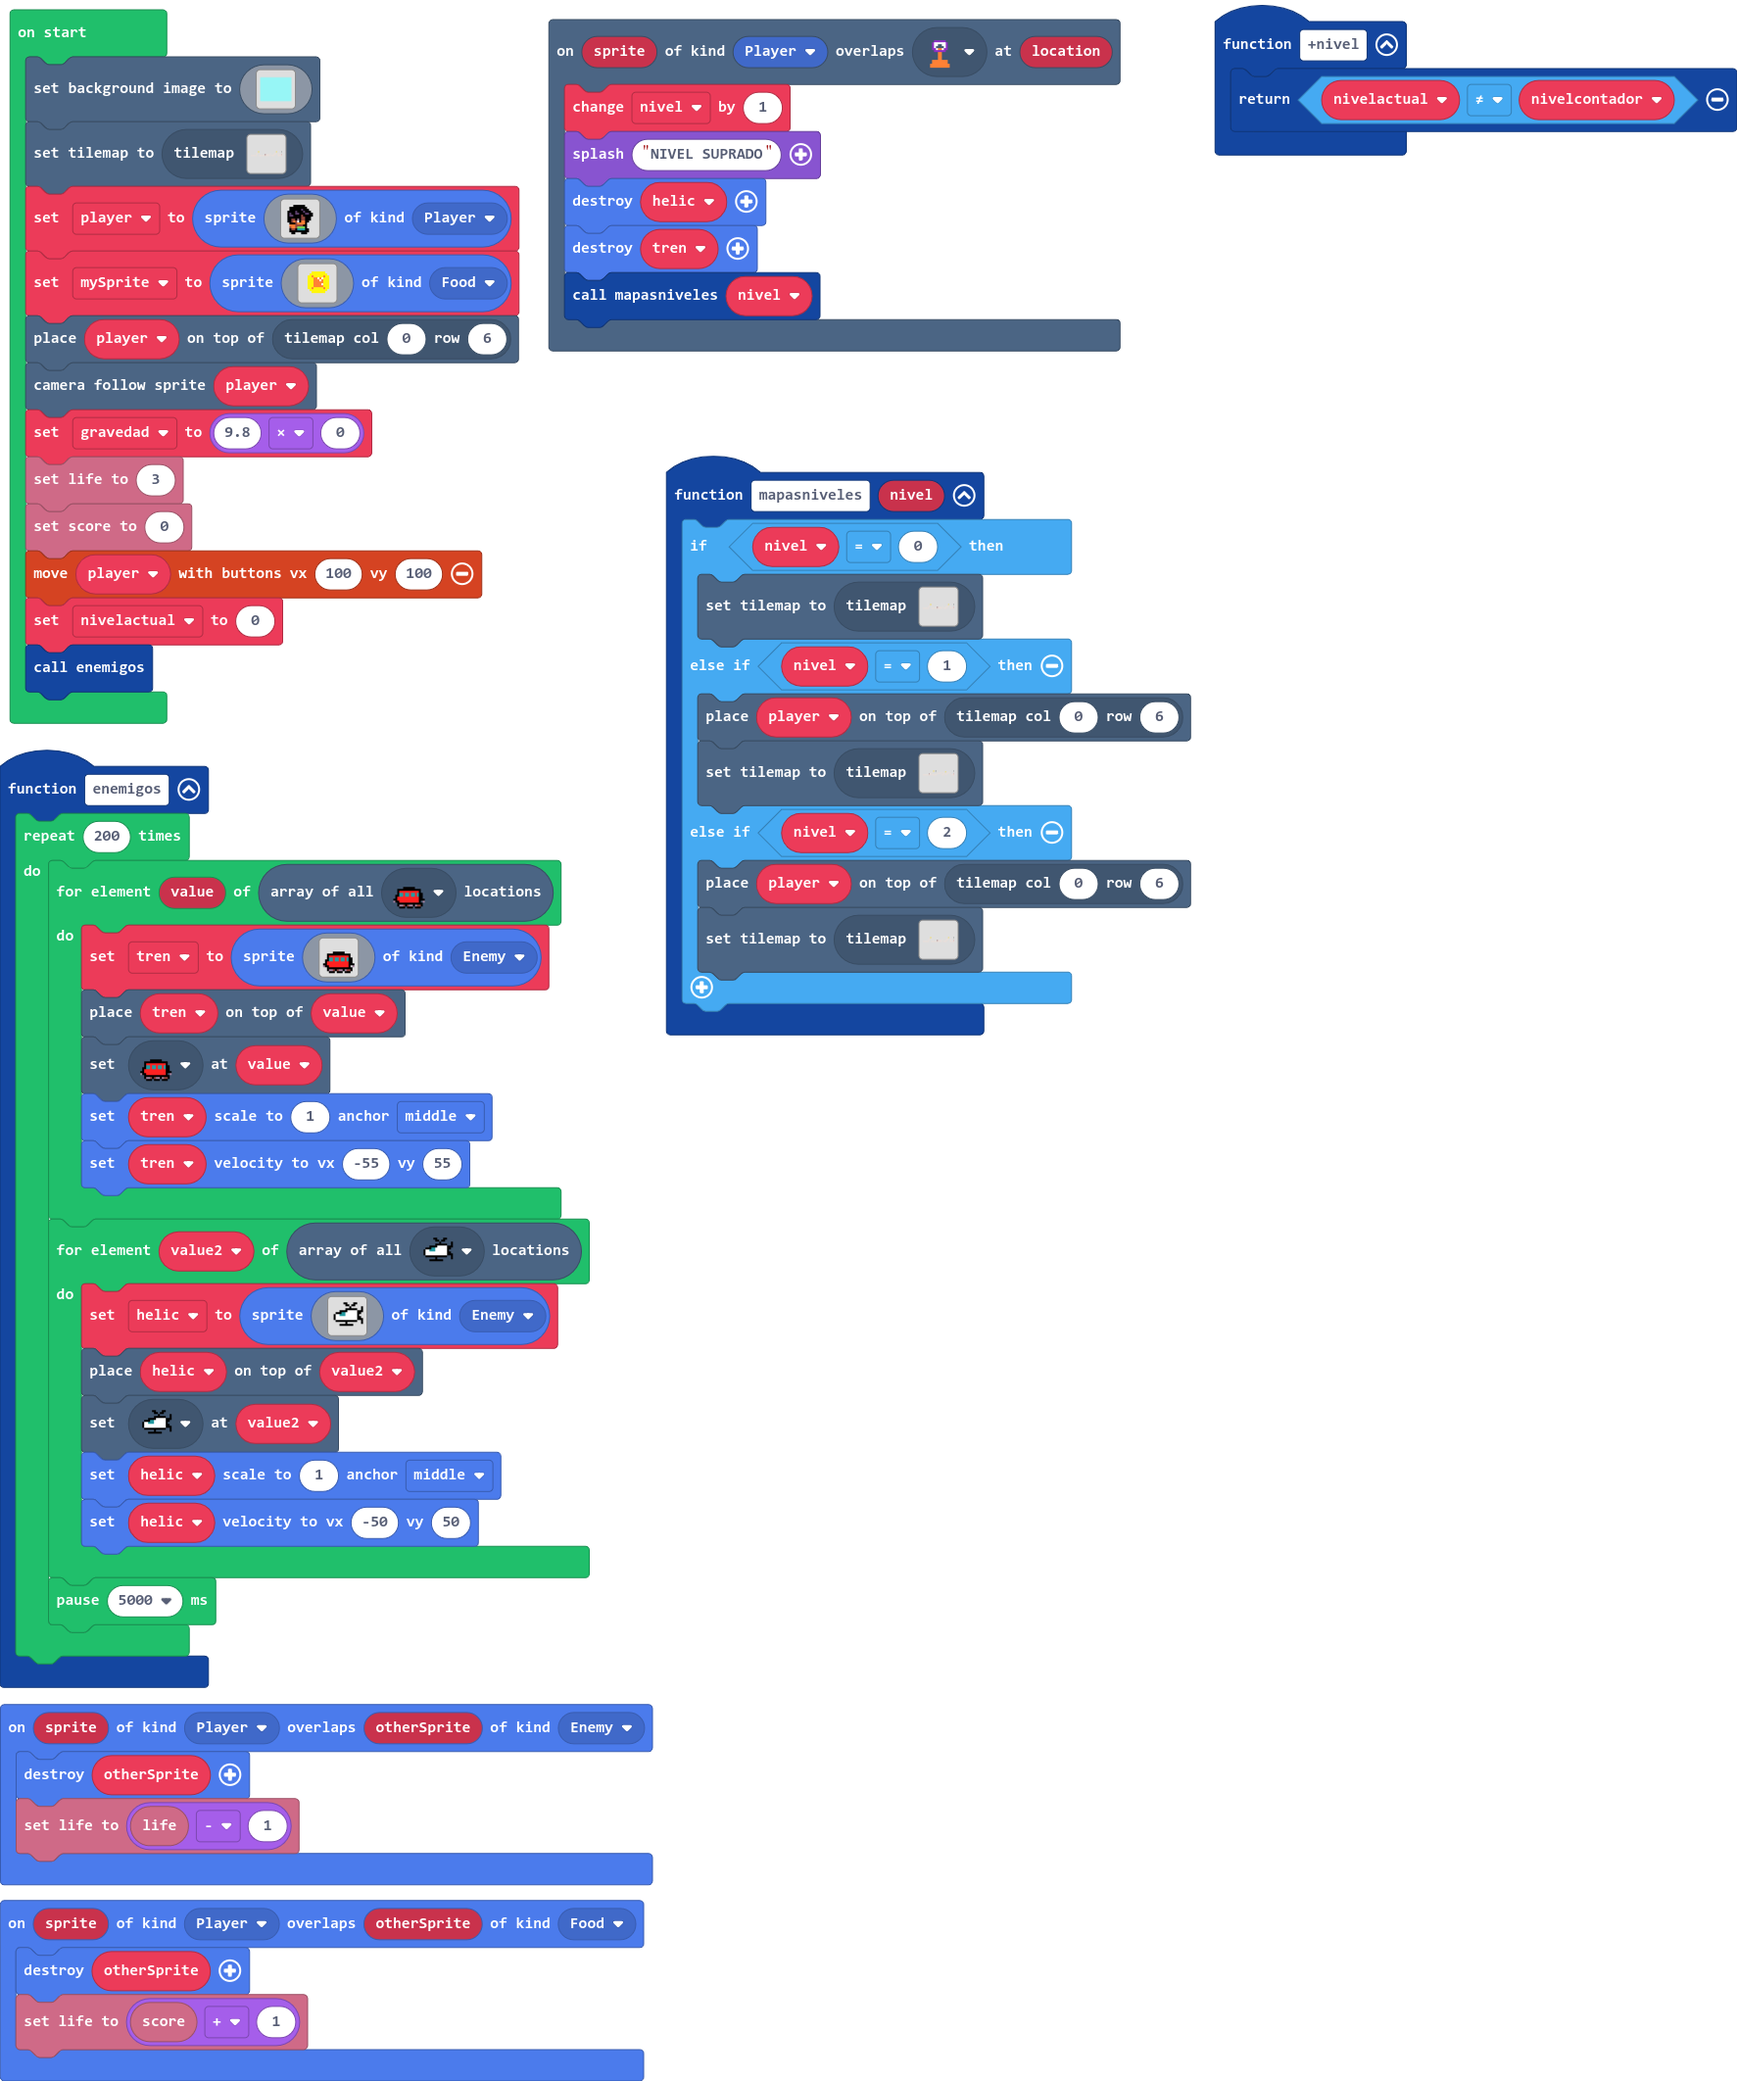
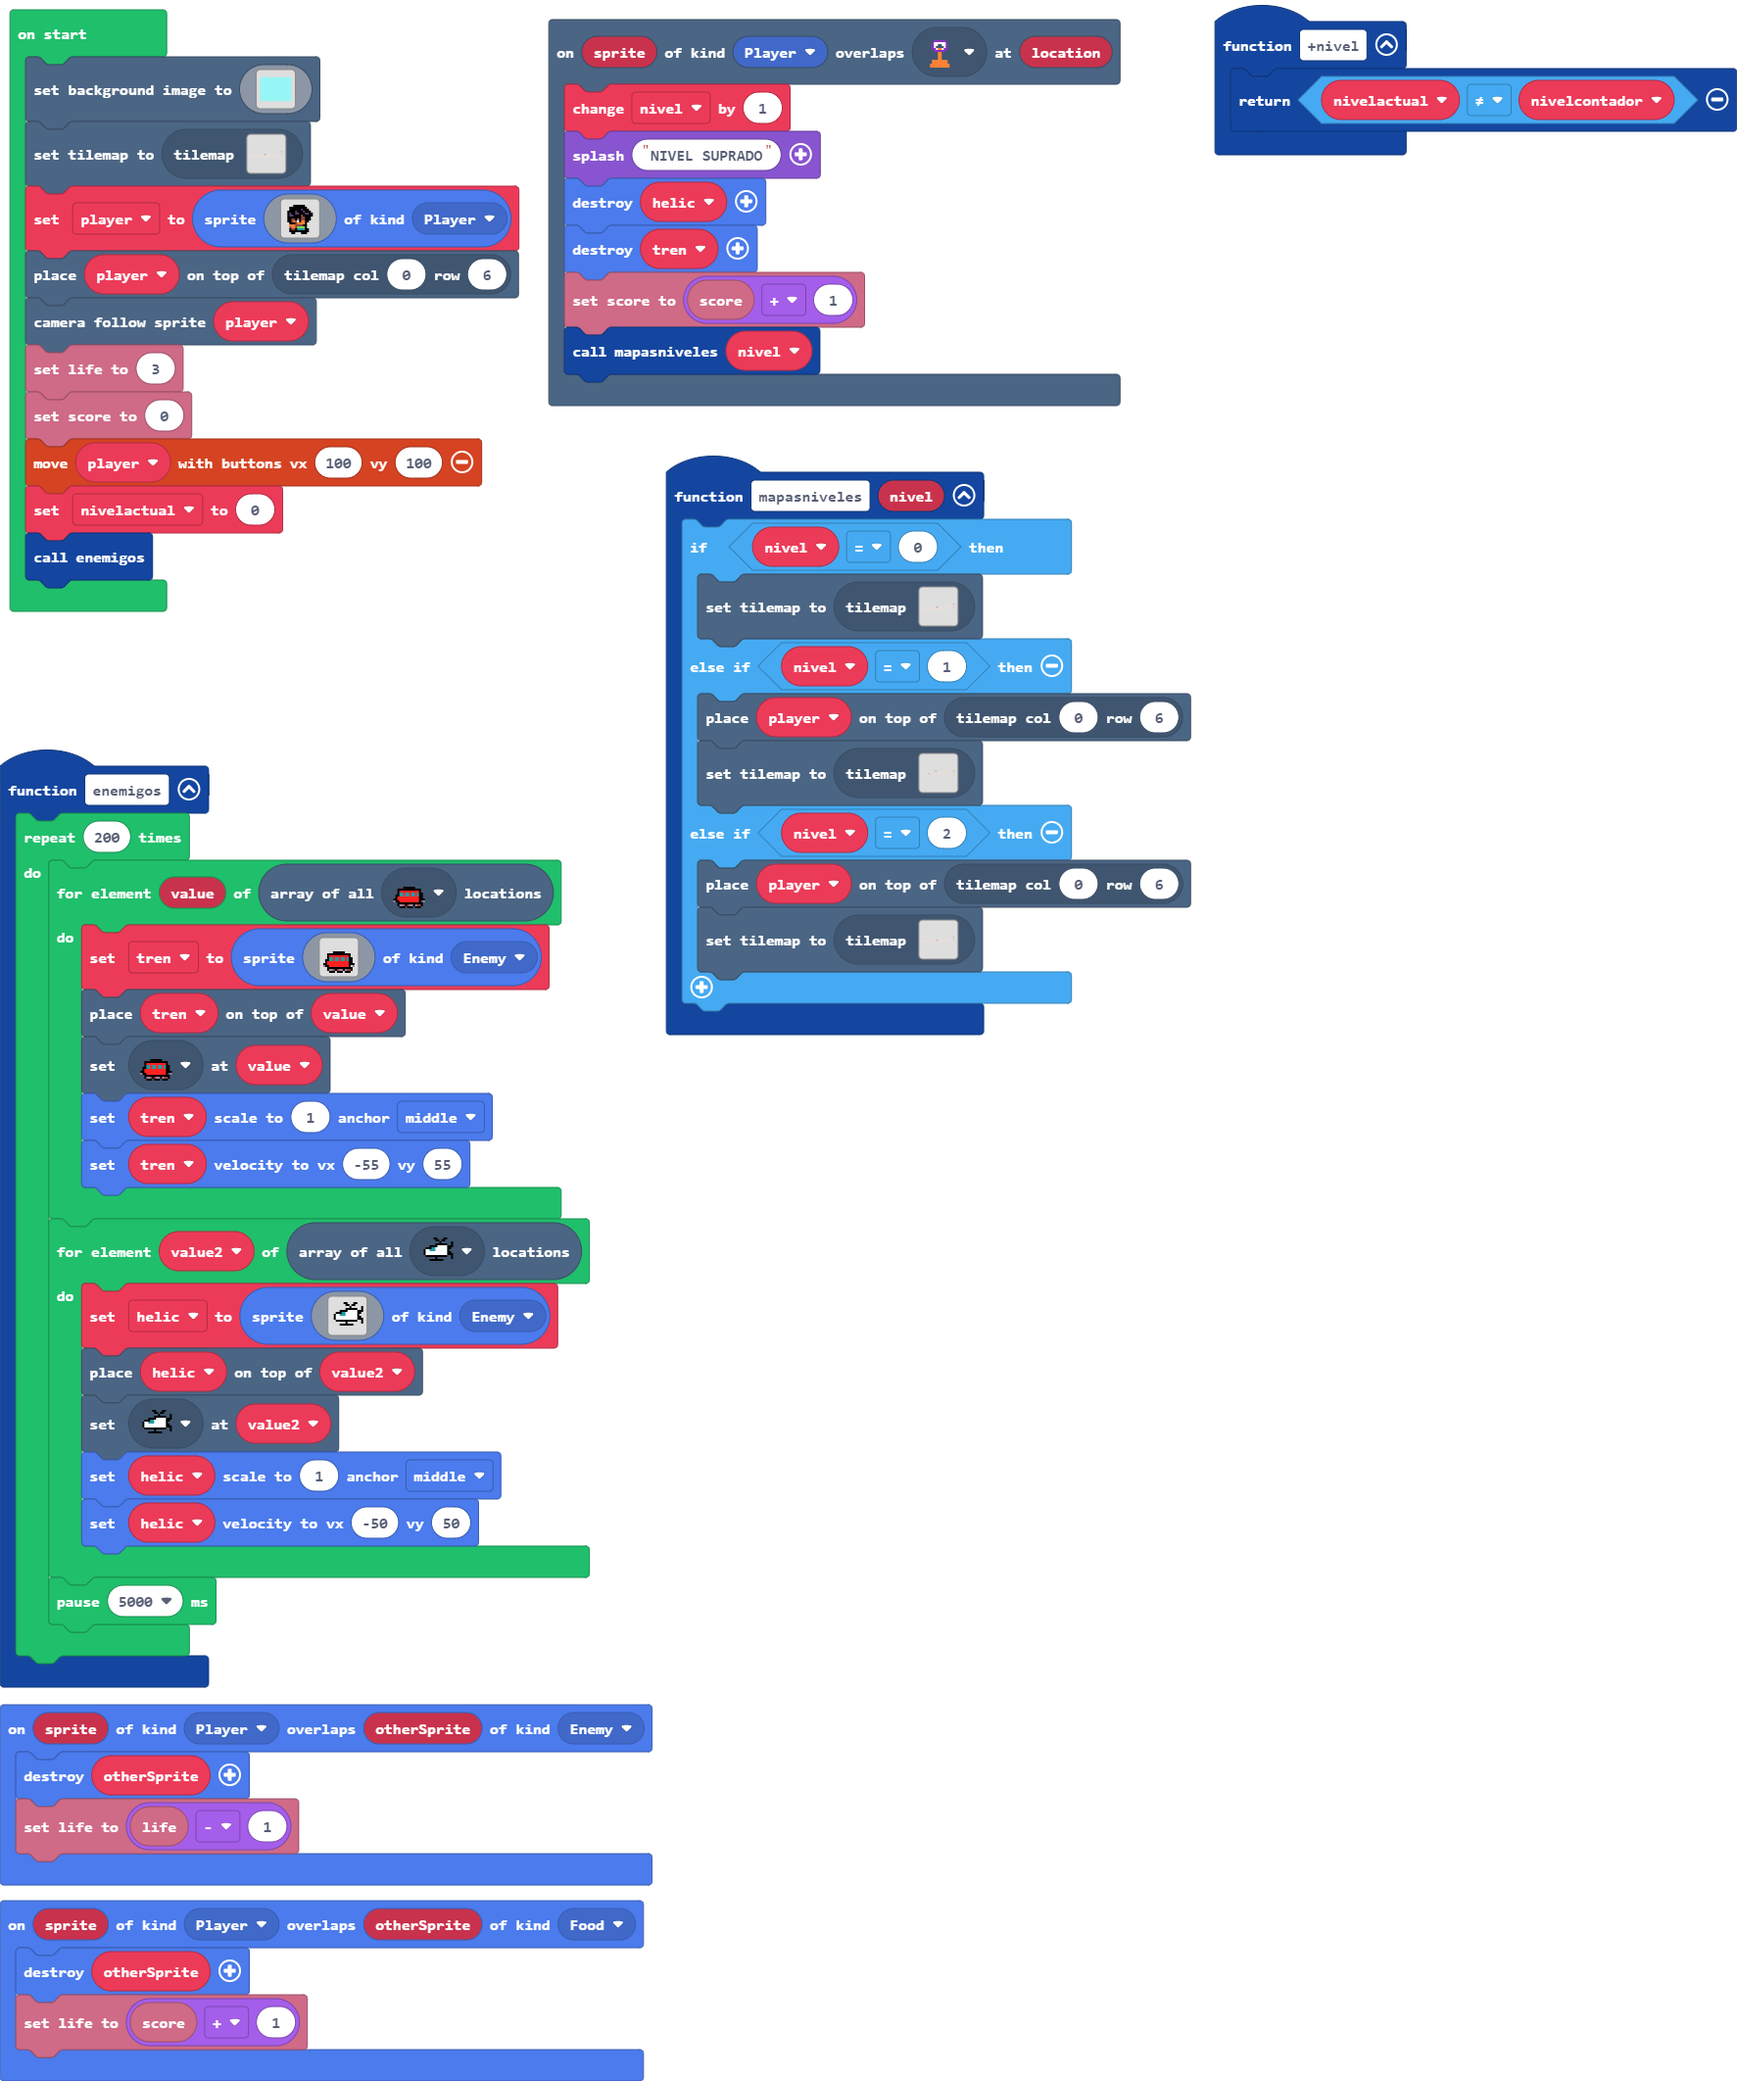
Update main.blocks, main.ts, tilemap.g.jres, tilemap.g.ts

diff --git a/tilemap.g.ts b/tilemap.g.ts
@@ -10,6 +10,8 @@ namespace myTiles {
     export const tile4 = image.ofBuffer(hex``);
     //% fixedInstance jres blockIdentity=images._tile
     export const tile2 = image.ofBuffer(hex``);
+    //% fixedInstance jres blockIdentity=images._tile
+    export const tile5 = image.ofBuffer(hex``);
 
     helpers._registerFactory("tilemap", function(name: string) {
         switch(helpers.stringTrim(name)) {
@@ -24,17 +26,6 @@ namespace myTiles {
 ..........................................
 222222222222222..222222.222..2222222222222
 `, [myTiles.transparency16,myTiles.tile3,myTiles.tile1,myTiles.tile4,myTiles.tile2,sprites.builtin.brick], TileScale.Sixteen);
-            case "level2":
[1 lines of base64/hex data omitted]
-..........................................
-..........................................
-..........................................
-.........................................2
-........2..2....................22...2....
-.......22.................2....222..22....
-....................22222.....2......2....
-22222222...22222222222222..22222....222222
-`, [myTiles.transparency16,sprites.builtin.brick,myTiles.tile1,myTiles.tile3,myTiles.tile4,myTiles.tile2], TileScale.Sixteen);
             case "level1":
[1 lines of base64/hex data omitted]
 ..........................................
@@ -46,6 +37,18 @@ namespace myTiles {
 .........22.......2...........22..........
 22222222222.222222.......222..........2222
 `, [myTiles.transparency16,myTiles.tile3,myTiles.tile4,myTiles.tile2,sprites.builtin.brick,myTiles.tile1], TileScale.Sixteen);
+            case "level2":
[1 lines of base64/hex data omitted]
+..........................................
+..........................................
+..........................................
+.........................................2
+........2..2....................22...2....
+.......22.................2....222..22....
+....................22222.....2......2....
+22222222...22222222222222..22222....222222
+22222222...22222222222222..22222....222222
+`, [myTiles.transparency16,sprites.builtin.brick,myTiles.tile1,myTiles.tile3,myTiles.tile2,myTiles.tile5], TileScale.Sixteen);
         }
         return null;
     })
@@ -61,6 +64,8 @@ namespace myTiles {
             case "tile4":return tile4;
             case "tren":
             case "tile2":return tile2;
+            case "myTile2":
+            case "tile5":return tile5;
         }
         return null;
     })

diff --git a/main.ts b/main.ts
@@ -3,6 +3,7 @@ scene.onOverlapTile(SpriteKind.Player, assets.tile`myTile`, function (sprite, lo
     game.splash("NIVEL SUPRADO")
     sprites.destroy(helic)
     sprites.destroy(tren)
+    info.setScore(info.score() + 1)
     mapasniveles(nivel2)
 })
 function nivel () {
@@ -227,27 +228,8 @@ player2 = sprites.create(img`
     . f f f f f f f f f f . . 
     . . f f . . . f f f . . . 
     `, SpriteKind.Player)
-let mySprite = sprites.create(img`
-    . . . . . . . . . . . . . . . . 
-    . . . . . . . . . . . . . . . . 
-    . . . . . 5 5 5 5 5 5 5 . . . . 
-    . . . . 5 5 5 5 5 5 5 5 5 . . . 
-    . . . 5 5 4 5 5 5 5 5 4 5 5 . . 
-    . . . 5 5 5 4 4 1 4 1 5 5 5 . . 
-    . . . 5 5 5 4 4 4 1 4 5 5 5 . . 
-    . . . 5 5 5 4 4 4 4 4 5 5 5 . . 
-    . . . 5 5 5 4 4 4 4 1 5 5 5 . . 
-    . . . 5 5 5 4 4 4 4 4 5 5 5 . . 
-    . . . 5 5 4 5 5 5 5 5 4 5 5 . . 
-    . . . . 5 5 5 5 5 5 5 5 5 . . . 
-    . . . . . 5 5 5 5 5 5 5 . . . . 
-    . . . . . . . . . . . . . . . . 
-    . . . . . . . . . . . . . . . . 
-    . . . . . . . . . . . . . . . . 
-    `, SpriteKind.Food)
 tiles.placeOnTile(player2, tiles.getTileLocation(0, 6))
 scene.cameraFollowSprite(player2)
-let gravedad = 9.8 * 0
 info.setLife(3)
 info.setScore(0)
 controller.moveSprite(player2, 100, 100)
